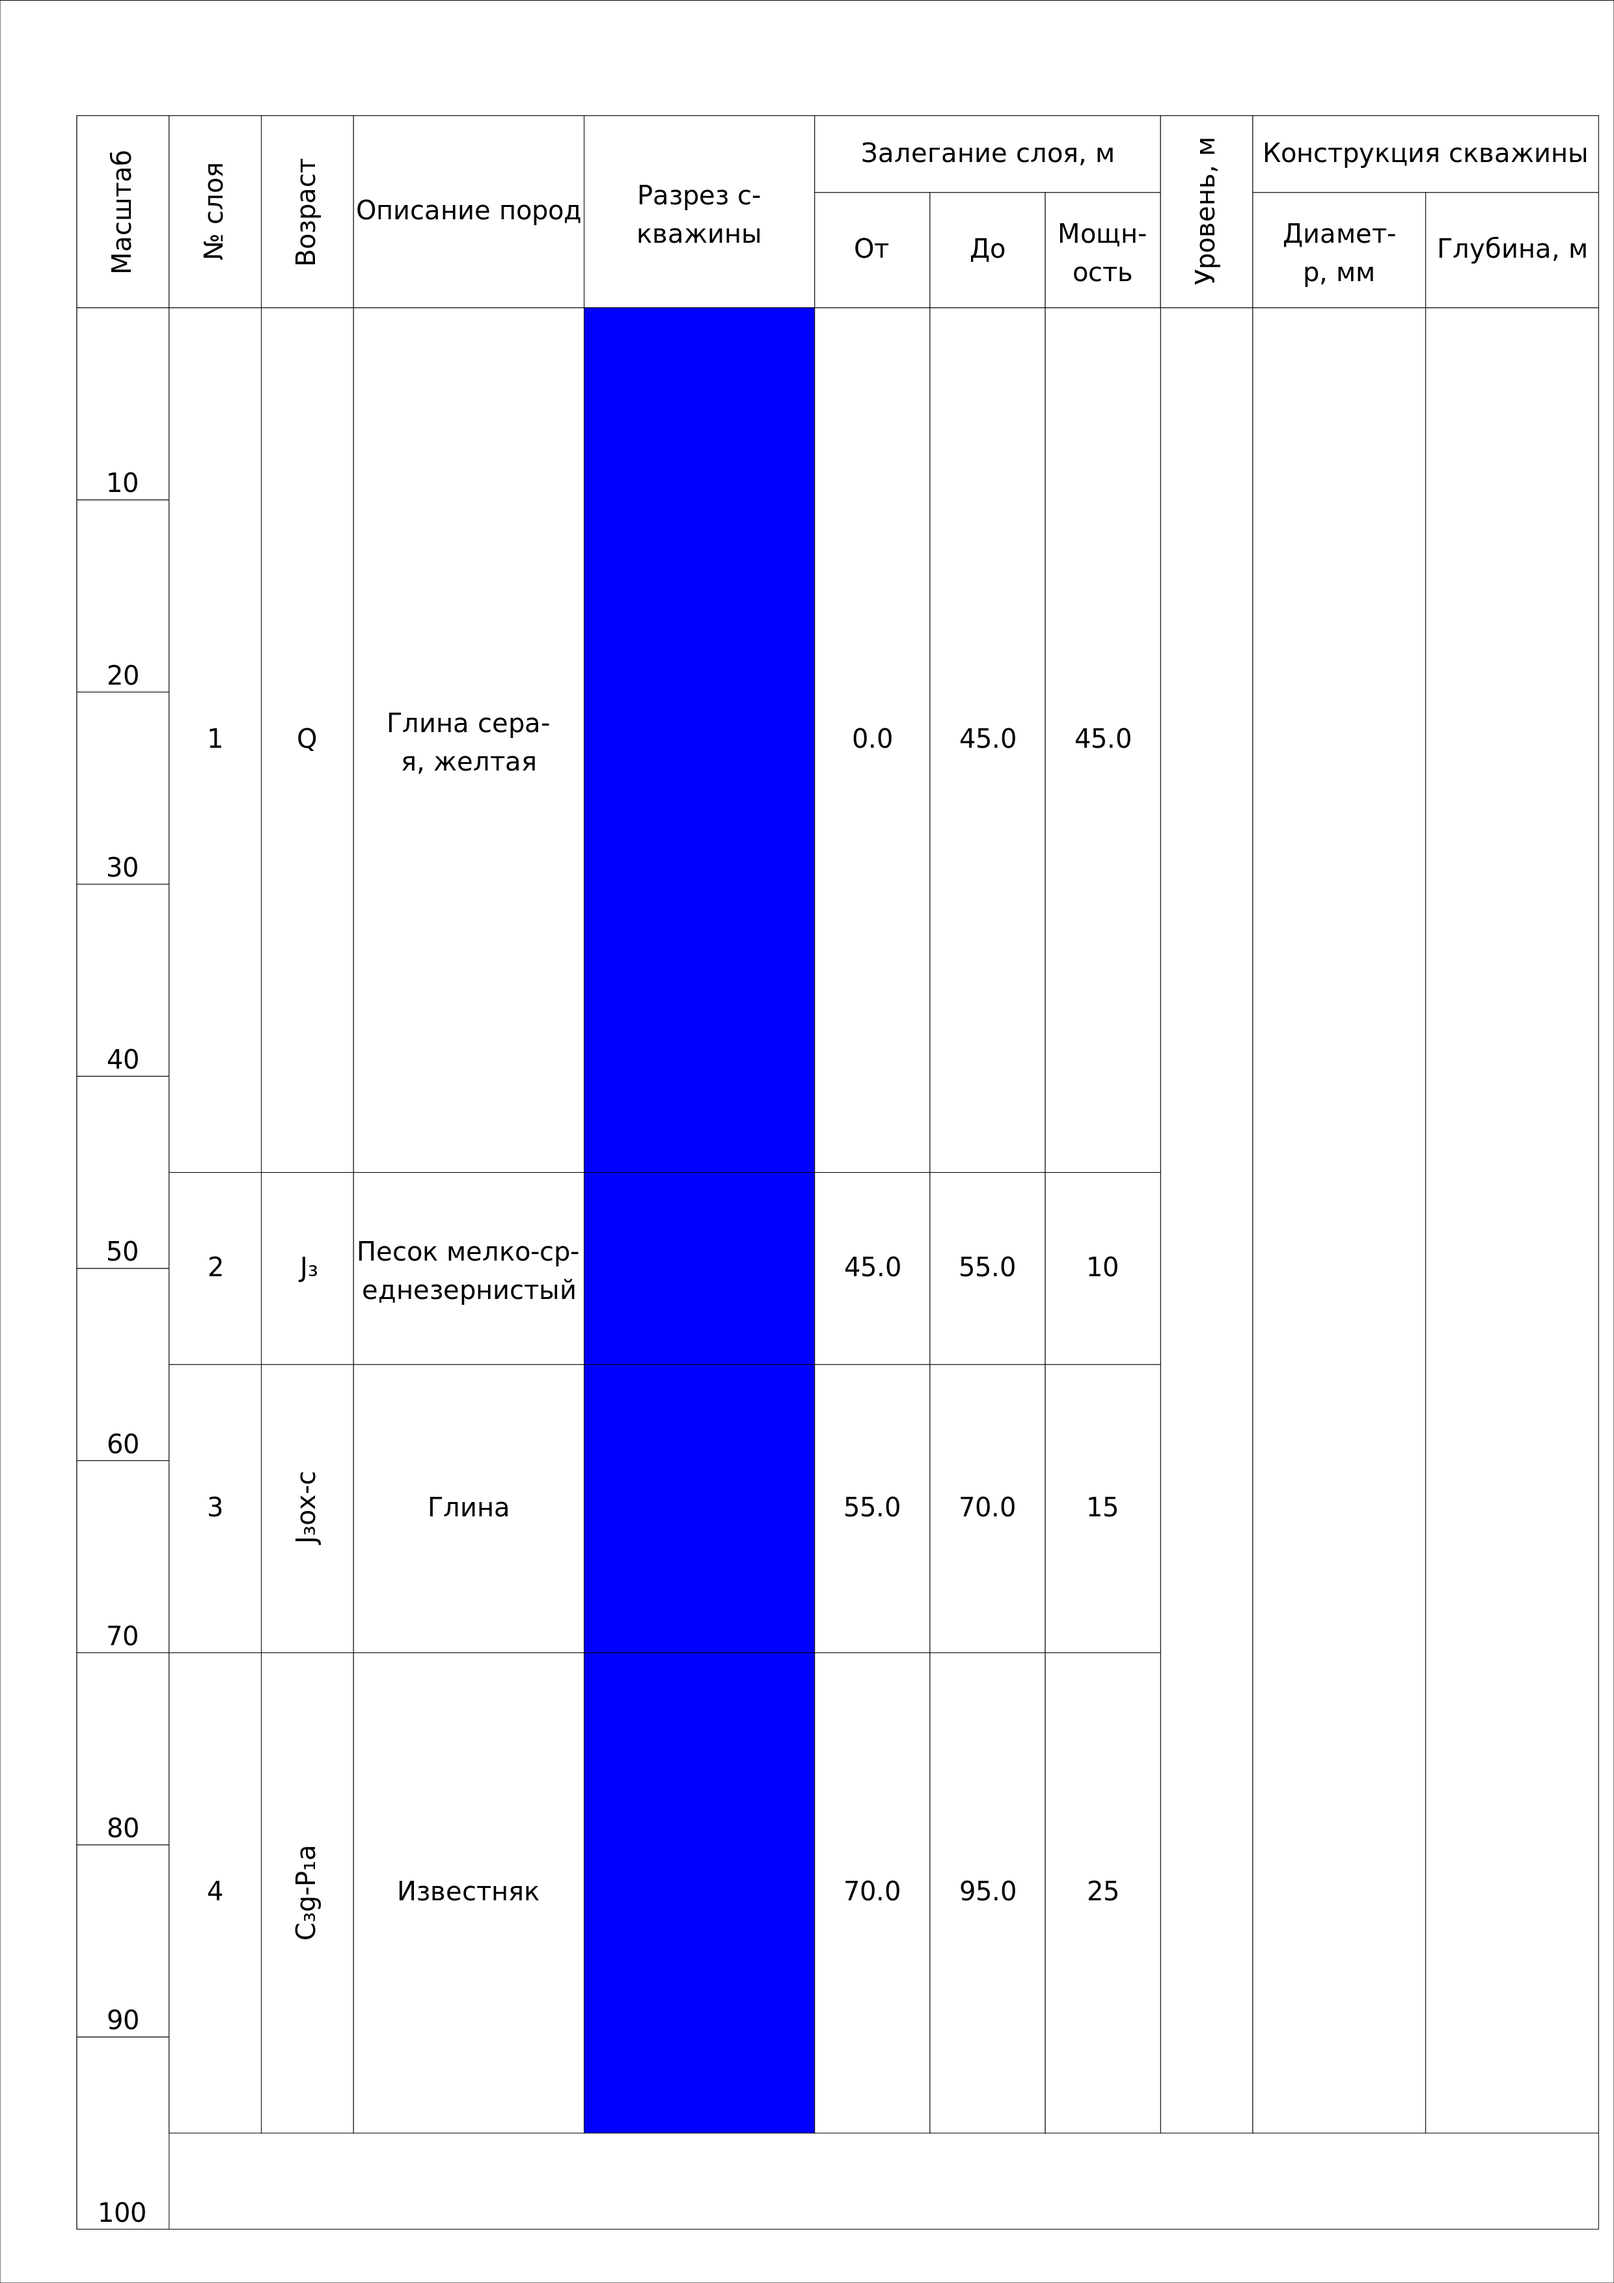
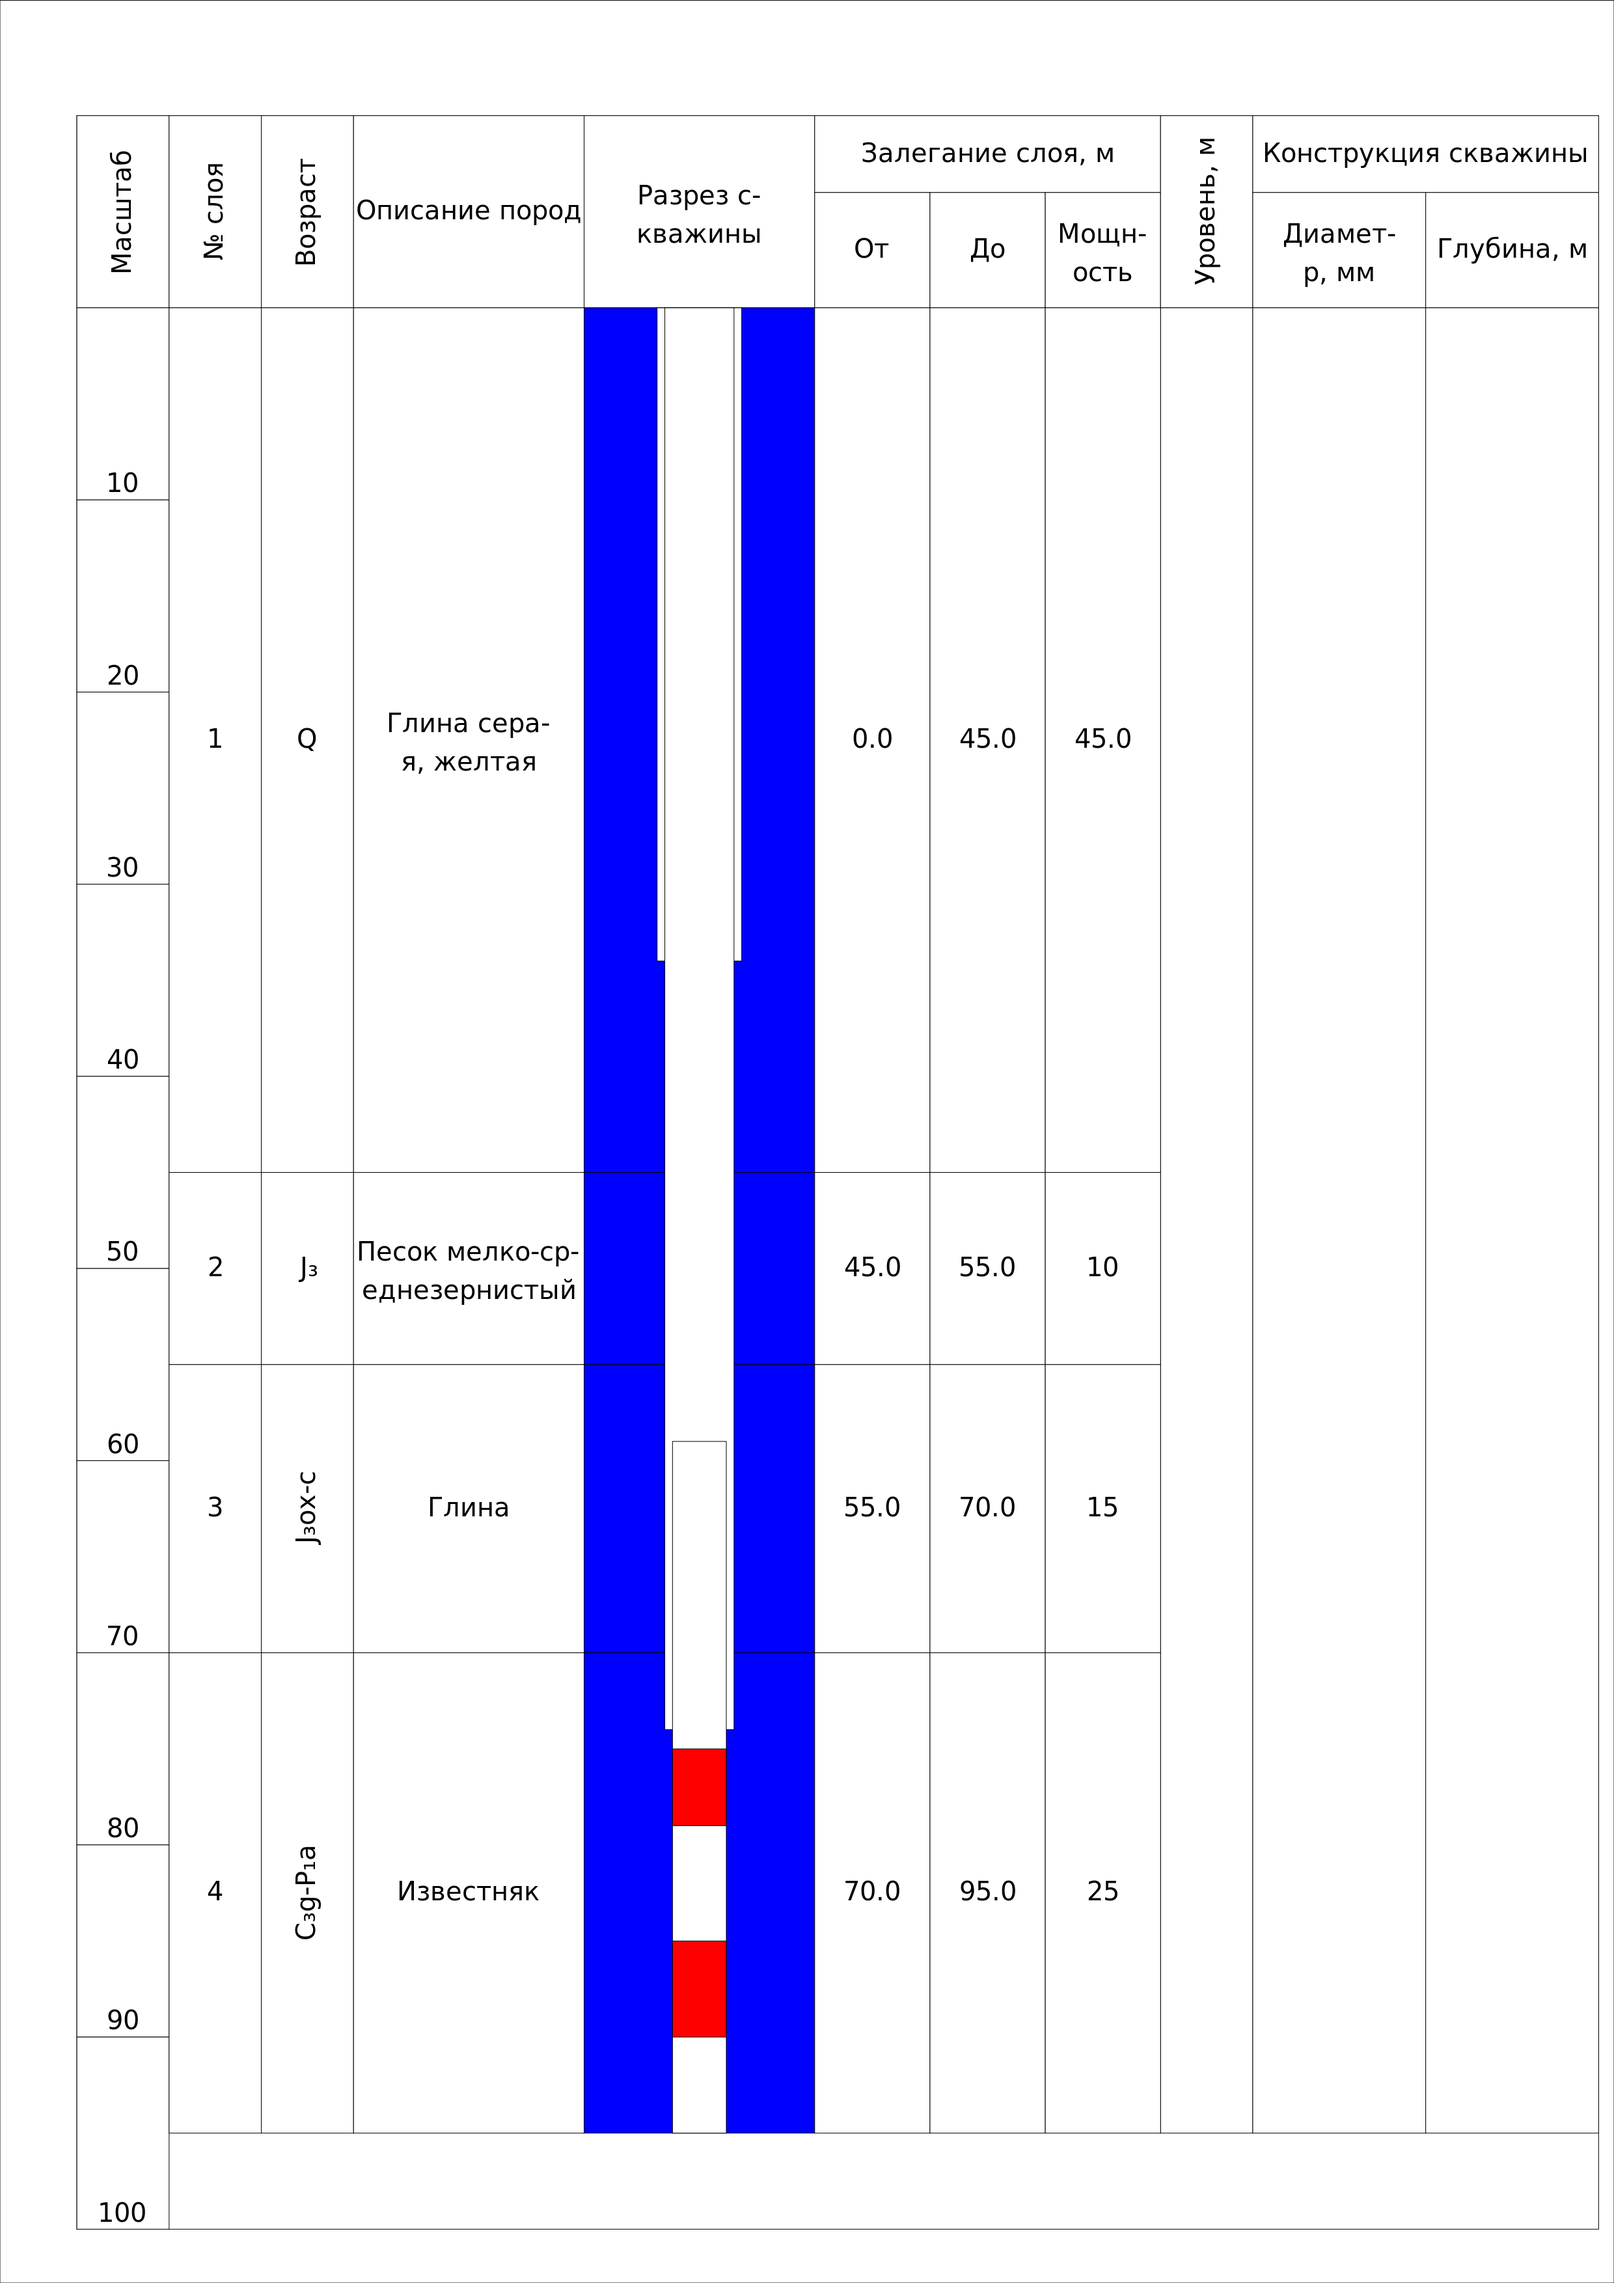
add filter part in filter_well

Changed region(s): [[0.4036, 0.1243, 0.4657, 0.9322]]

diff --git a/drawing/main.py b/drawing/main.py
@@ -11,13 +11,29 @@ mm_x = 0.004761
 mm_y = 0.003366
 koef = 2480/210
 # шаблон данных для слоев
-data = {'layers': {
+# из бд будет прихдить список
+layers_data = {'layers': {
     1: {'id': 1, 'name': 'Q', 'thick': 45.0, 'sediments': 'Глина серая, желтая'},
     2: {'id': 2, 'name': 'J\u2083', 'thick': 10, 'sediments': 'Песок мелко-среднезернистый'},
     3: {'id': 3, 'name': 'J\u2083ox-c', 'thick': 15, 'sediments': 'Глина'},
     4: {'id': 4, 'name': 'C\u2083g-P\u2081a', 'thick': 25, 'sediments': 'Известняк'},
 }
 }
+well_data = {'well_data': {
+    'columns': {
+        1: {'id': 1, 'D': 377, 'from': 0.0, 'till': 34.0, 'type': 'обсадная'},
+        2: {'id': 2, 'D': 273, 'from': 0.0, 'till': 74.0, 'type': 'обсадная'},
+        3: {'id': 3, 'D': 273, 'from': 59.0, 'till': 95.0, 'type': 'фильтровая', 'filter': {
+            1: {'id': 1, 'from': 75.0, 'till': 79.0},
+            2: {'id': 2, 'from': 85.0, 'till': 90.0},
+        }}
+    },
+    'pump_type': 'ЭЦВ-6-10-110',
+    'pump_depth': 55.0,
+    'static_lvl': 32.0,
+    'dynamic_lvl': 35.0,
+    'well_depth': 95.0
+}}
 
 
 def main():
@@ -32,11 +48,25 @@ def main():
     d.append(r)
     header(d)
     scale(d, 95)
-    layers(d, 95, data)
+    layers(d, 95, layers_data)
+    well(d, well_data)
     d.savePng('example.png')
 
 
+# выбор масштаба (размер секции и количество секций)
+def scaling(well_depth):
+    if well_depth <= 50:
+        section = 5
+    elif well_depth > 50 and well_depth <= 150:
+        section = 10
+    else:
+        section = 20
+    section_numbers = round((well_depth + (section/2))/section)
+    return section, section_numbers
+
 # Создание таблицы с наименованием столбцов
+
+
 def header(d):
     # d x1, y1, x2, y2
     # создание заголовка таблицы (надо немного поправить перенос строк, для таблицы
@@ -58,15 +88,8 @@ def header(d):
 
 # риусет масштабную линейку слева
 def scale(d, well_depth):
-    # выбираем масштаб
-    if well_depth <= 50:
-        section = 5
-    elif well_depth > 50 and well_depth <= 150:
-        section = 10
-    else:
-        section = 20
-    # количество делений шкалы (section/2 для округления в большую сторону)
-    section_numbers = round((well_depth + (section/2))/section)
+    # выбираем масштаб и количество делений
+    section, section_numbers = scaling(well_depth)
     # колчичество мм на секцию (вся шкала растягивается на 250 мм)
     mm_section = 250 / section_numbers
     y_start = (297 - 15 - 25 - mm_section)
@@ -154,14 +177,7 @@ def rectangle(d, x, y, x1, y1, text, direction):
 def layers(d, well_depth, dt):
     # выбираем масштаб
     data = dt['layers']
-    if well_depth <= 50:
-        section = 5
-    elif well_depth > 50 and well_depth <= 150:
-        section = 10
-    else:
-        section = 20
-    # у нас на 250 мм на листе а4 растянута полная глубина скважин с округлением
-    section_numbers = round((well_depth + (section/2))/section)
+    section, section_numbers = scaling(well_depth)
     # смещение по x: (12, 12, 12, 30, 30, 15, 15, 12, 22.5, 22.5)
     # деля 250 на округленную глубину скважины - получаем сколько в мм метров
     scale_m = (250/(section_numbers * section))
@@ -203,10 +219,47 @@ def layers(d, well_depth, dt):
         # завершение цикла отрисовки геологии
 
 
-well_data = {}
+"""well_dto = {'well_data': {
+    'columns': {
+        1: {'id': 1, 'D': 377, 'from': 0.0, 'till': 34.0, 'type': 'обсадная'},
+        2: {'id': 2, 'D': 273, 'from': 0.0, 'till': 74.0, 'type': 'обсадная'},
+        3: {'id': 3, 'D': 273, 'from': 70.0, 'till': 95.0, 'type': 'фильтровая', 'filter': {
+            1: {'id': 1, 'from': 75.0, 'till': 79.0},
+            2: {'id': 2, 'from': 85.0, 'till': 90.0},
+        }}
+    },
+    'pump_type': 'ЭЦВ-6-10-110',
+    'pump_depth': 55.0,
+    'static_lvl': 32.0,
+    'dynamic_lvl': 35.0,
+    'well_depth': 95.0
+}}"""
 
 
-#def well(d, well_depth):
+def well(d, well_dt):
+    data = well_dt['well_data']
+    # масштаб
+    section, section_numbers = scaling(data['well_depth'])
+    scale_m = (250/(section_numbers * section))
+    # стартовый диаметр внутренней колонны
+    d_start = ((30/2)/(len(data['columns'])) + 2*len(data['columns']))
+    i = 1
+    while i in data['columns']:
+        column = data['columns'][i]
+        y_start = 257 - column['from']*scale_m
+        x_start = 76 + (30-d_start)/2
+        rectangle(d, x_start, y_start, d_start,
+                  (column['from'] - column['till'])*scale_m, 'white', 'f')
+        # добавление интервалов фильтра
+        if column['type'] == 'фильтровая':
+            filter = column['filter']
+            i_f = 1
+            while i_f in filter:
+                rectangle(d, x_start, 257 - filter[i_f]['from']*scale_m, d_start,
+                          (filter[i_f]['from'] - filter[i_f]['till'])*scale_m, 'red', 'f')
+                i_f += 1
+        d_start -= 2
+        i += 1
 
 
 if __name__ == "__main__":

diff --git a/drawing/test.py b/drawing/test.py
@@ -1,2 +1,16 @@
-print(len('Глина серая, желтая'))
-print(30/2.1)
+well_dt = {'well_data': {
+    'columns': {
+        1: {'id': 1, 'D': 377, 'from': 0.0, 'till': 34.0, 'type': 'обсадная'},
+        2: {'id': 2, 'D': 273, 'from': 0.0, 'till': 74.0, 'type': 'обсадная'},
+        3: {'id': 3, 'D': 273, 'from': 70.0, 'till': 95.0, 'type': 'фильтровая', 'filter': {
+            1: {'id': 1, 'from': 75.0, 'till': 79.0},
+            1: {'id': 2, 'from': 85.0, 'till': 90.0},
+        }}
+    },
+    'pump_type': 'ЭЦВ-6-10-110',
+    'pump_depth': 55.0,
+    'static_lvl': 32.0,
+    'dynamic_lvl': 35.0,
+    'well_depth': 95.0
+}}
+print(well_dt['well_data']['columns'][1])
